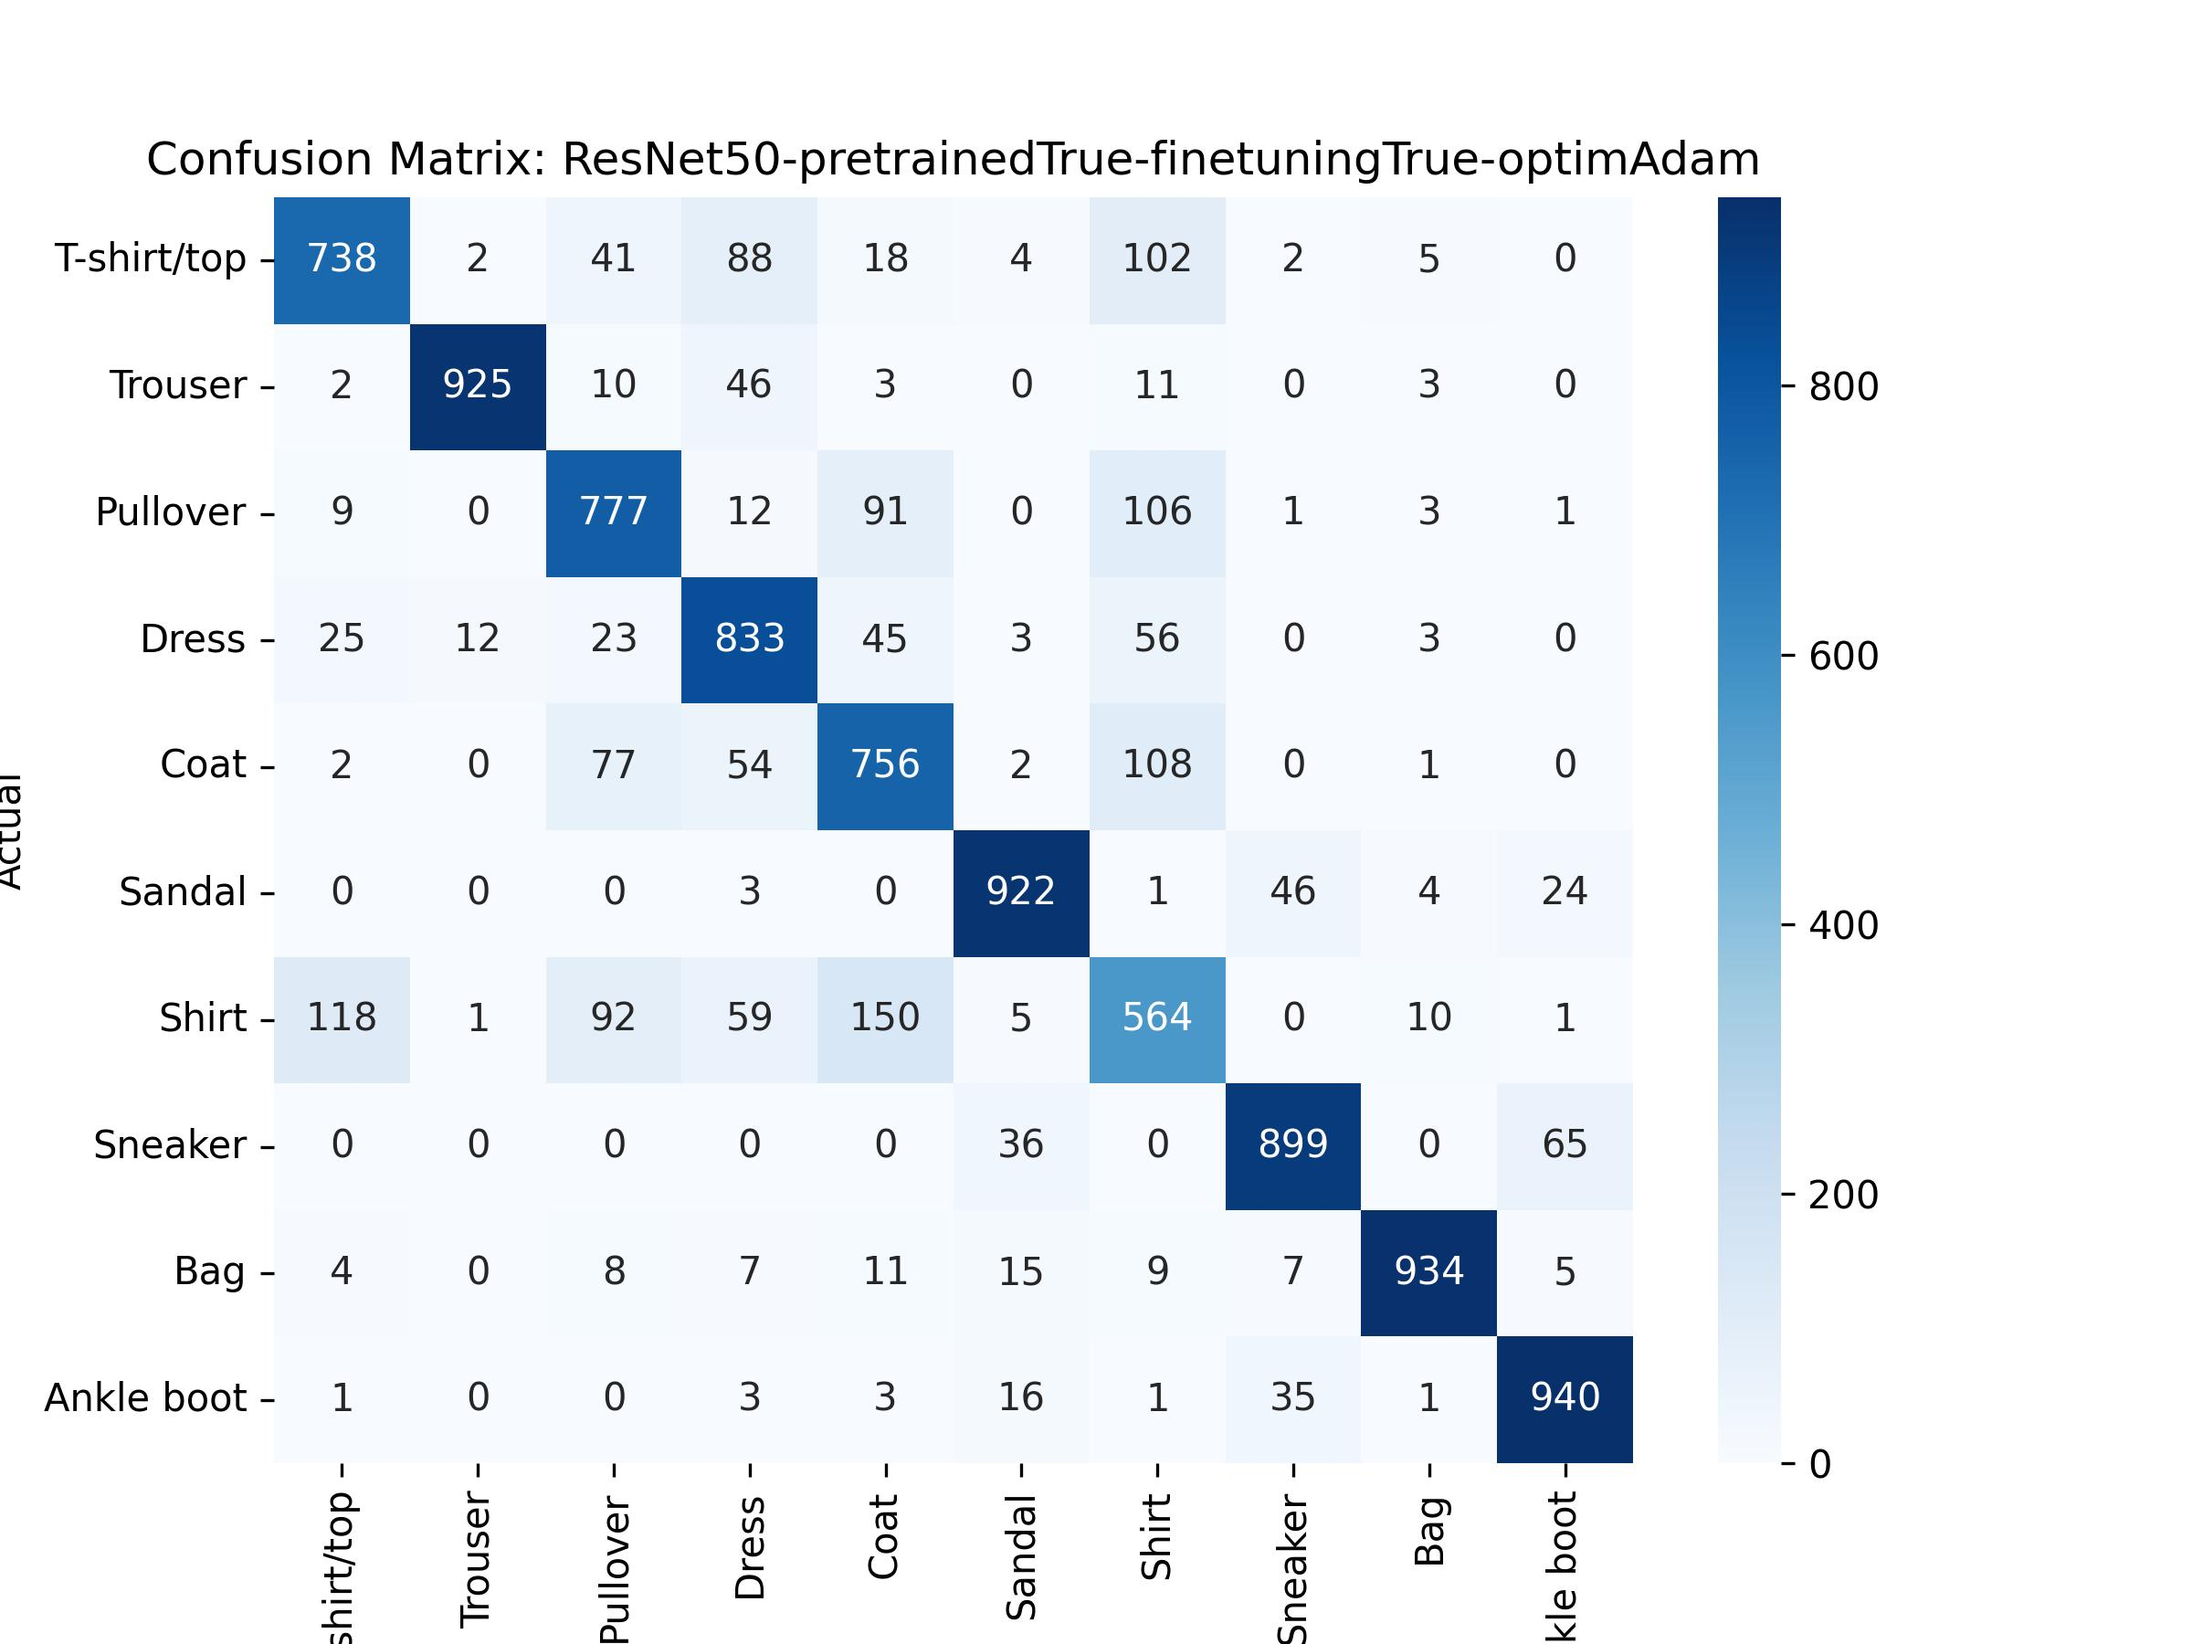
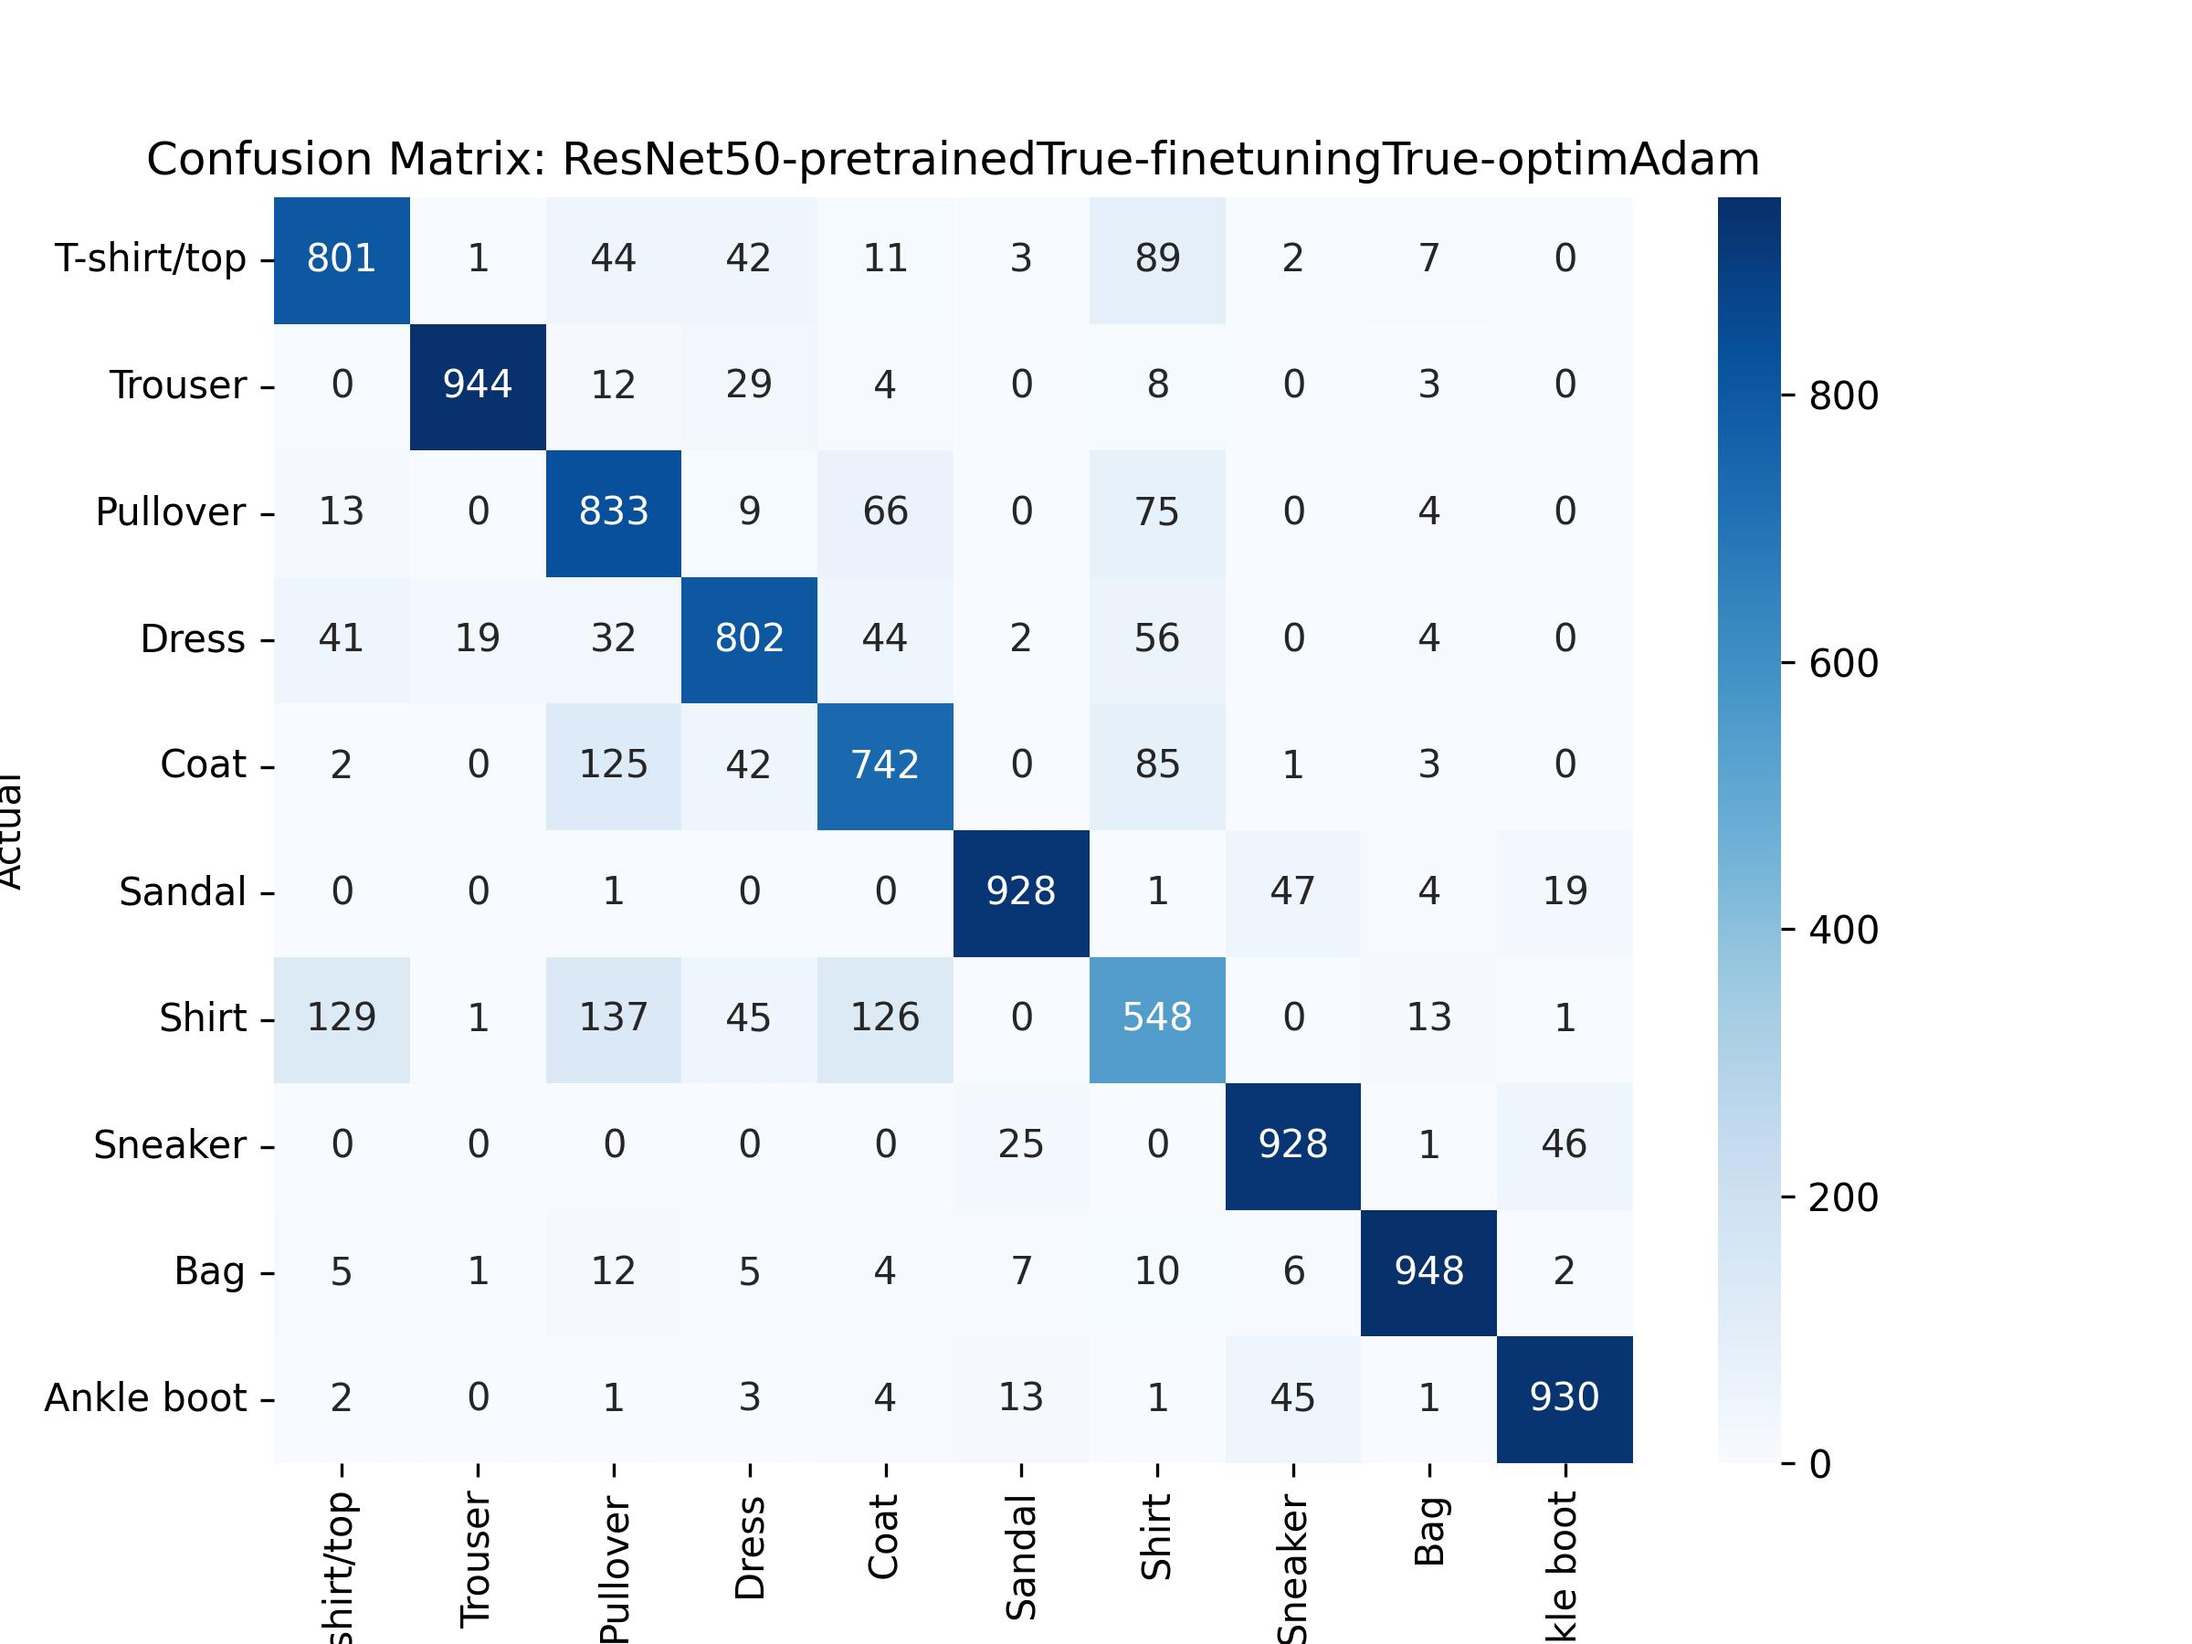
reran pretrained model experiments

diff --git a/src/pretrained_models.py b/src/pretrained_models.py
@@ -223,7 +223,7 @@ for model_name in lst_of_models:
                     'pretrained_model':pretrained_flag,
                     'finetuning':finetune_flag,
                     'batchSize':64,
-                    'n_epochs':2,
+                    'n_epochs':10,
                     'optimizer':optim_name, # either of ['Adam','SGD']
                     'lr':0.001,
                     'momentum':0.9,
